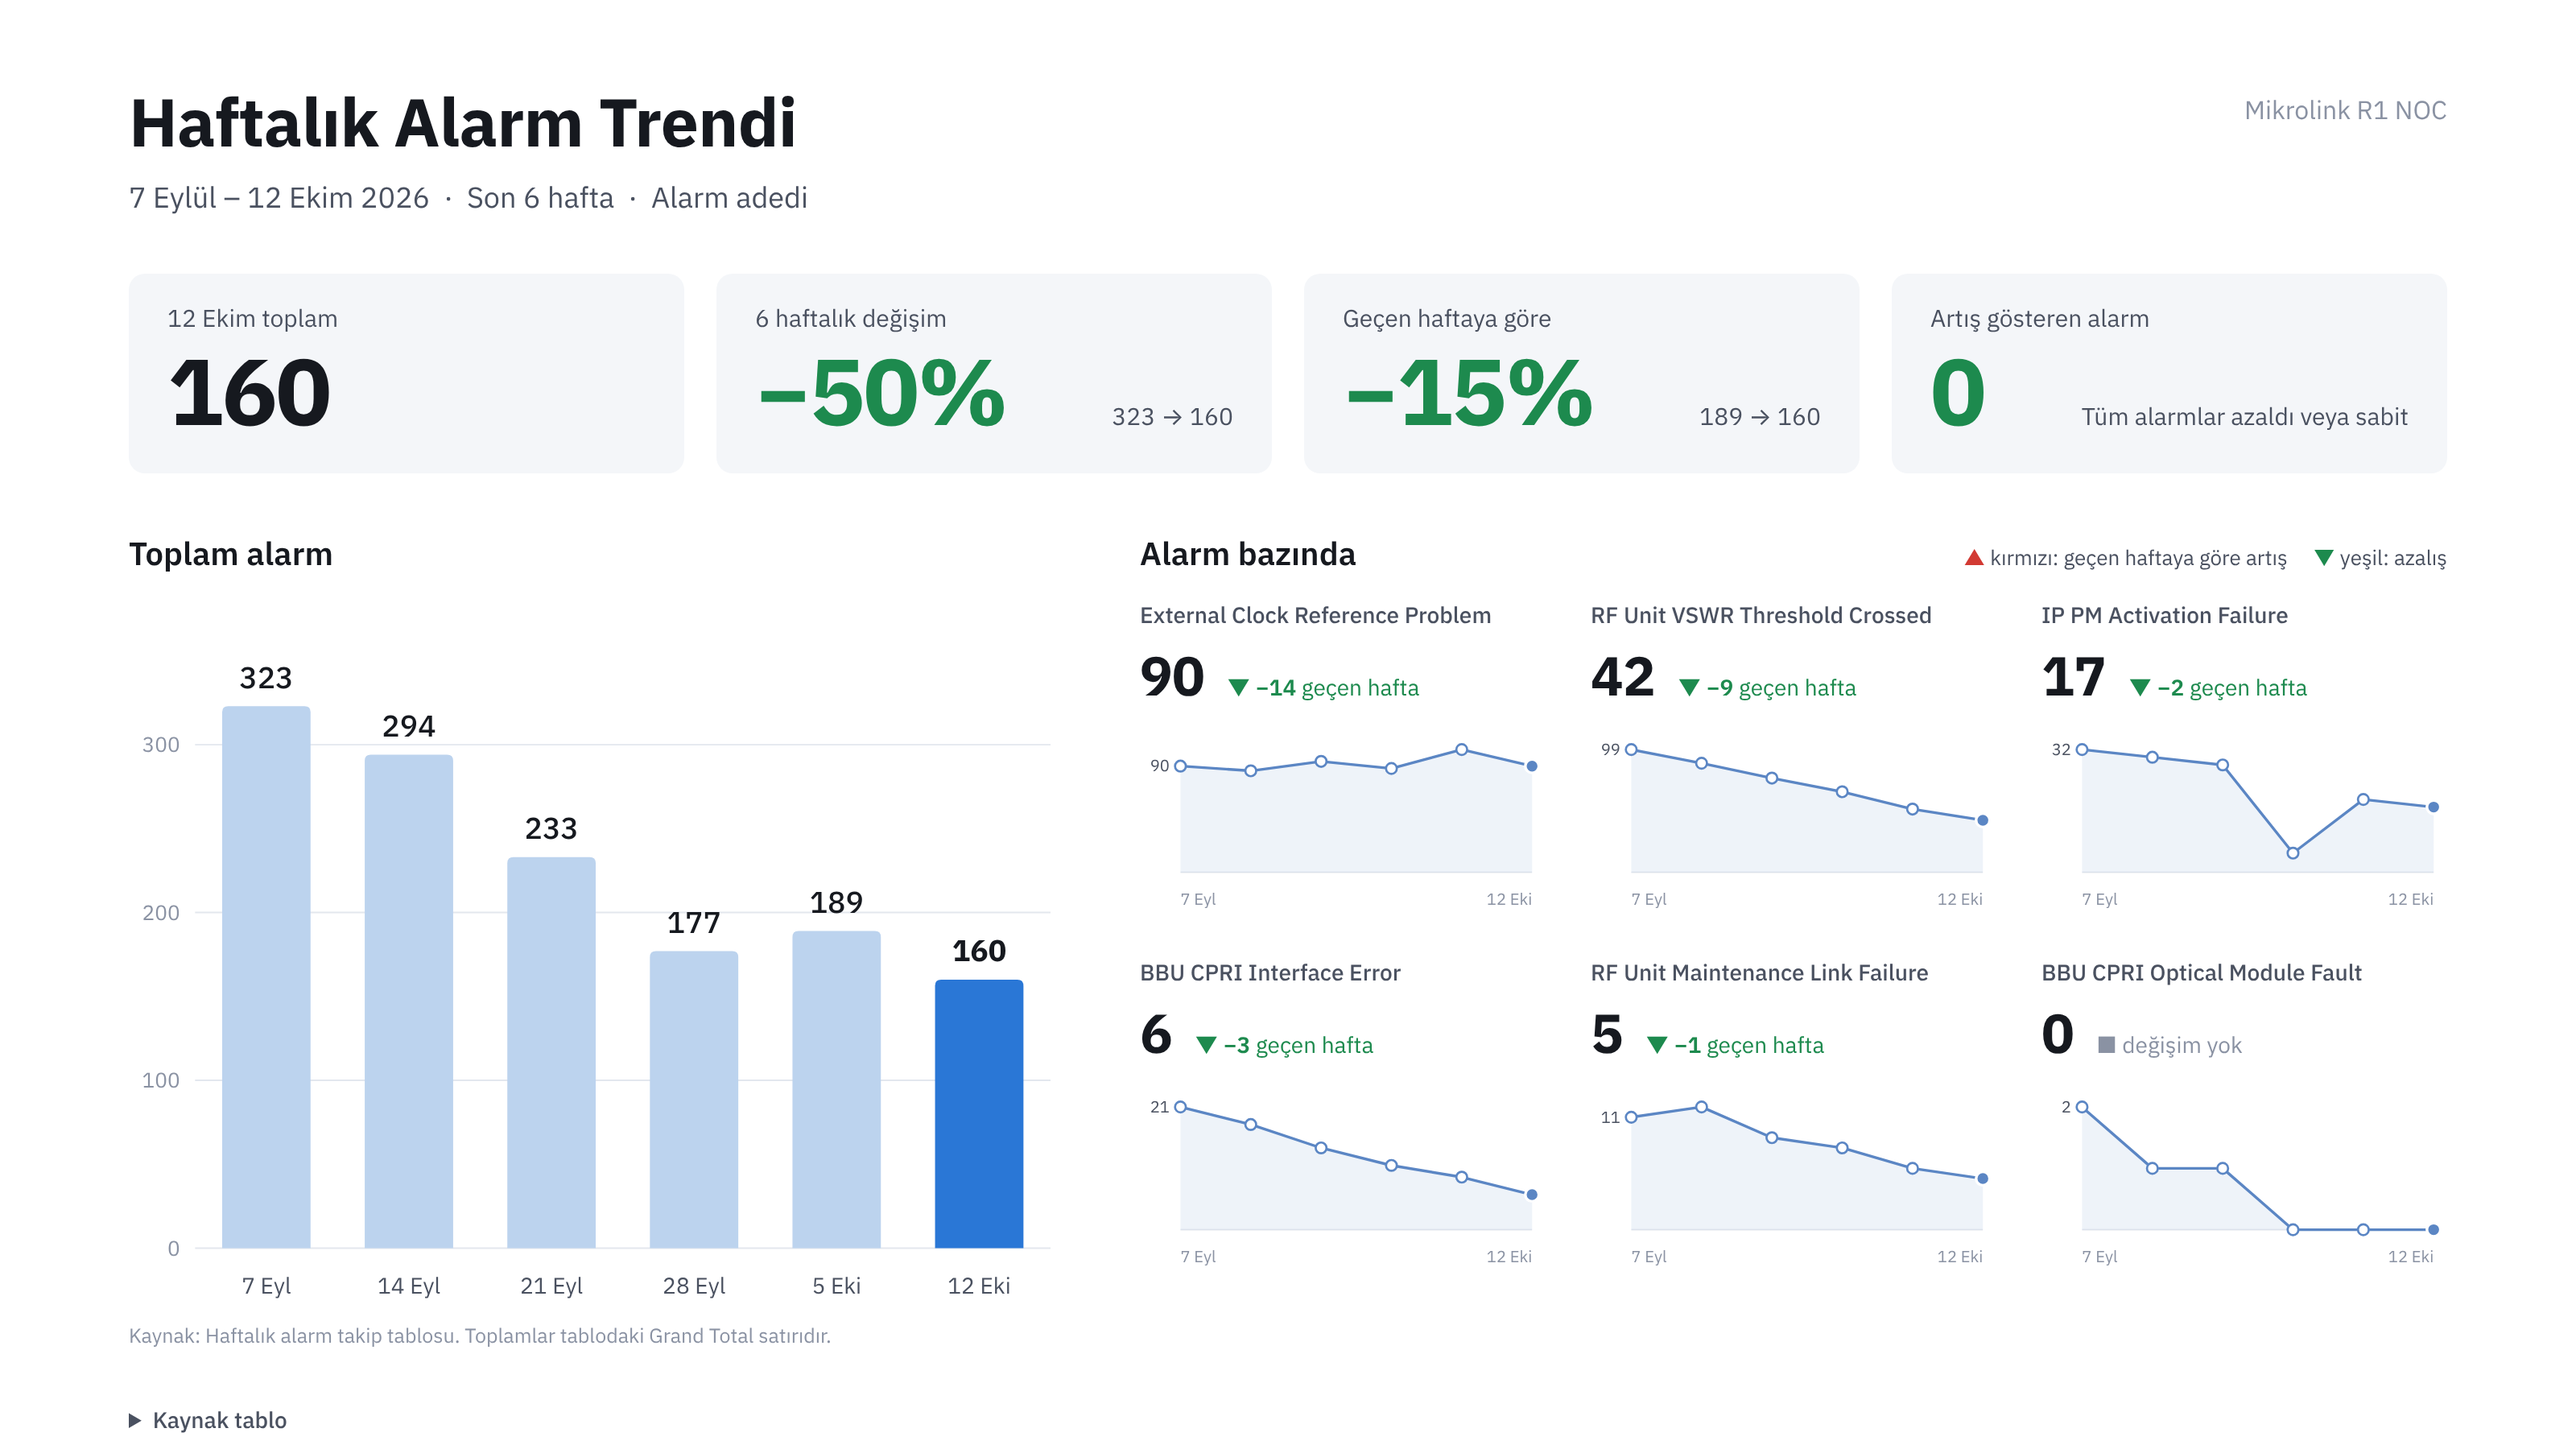
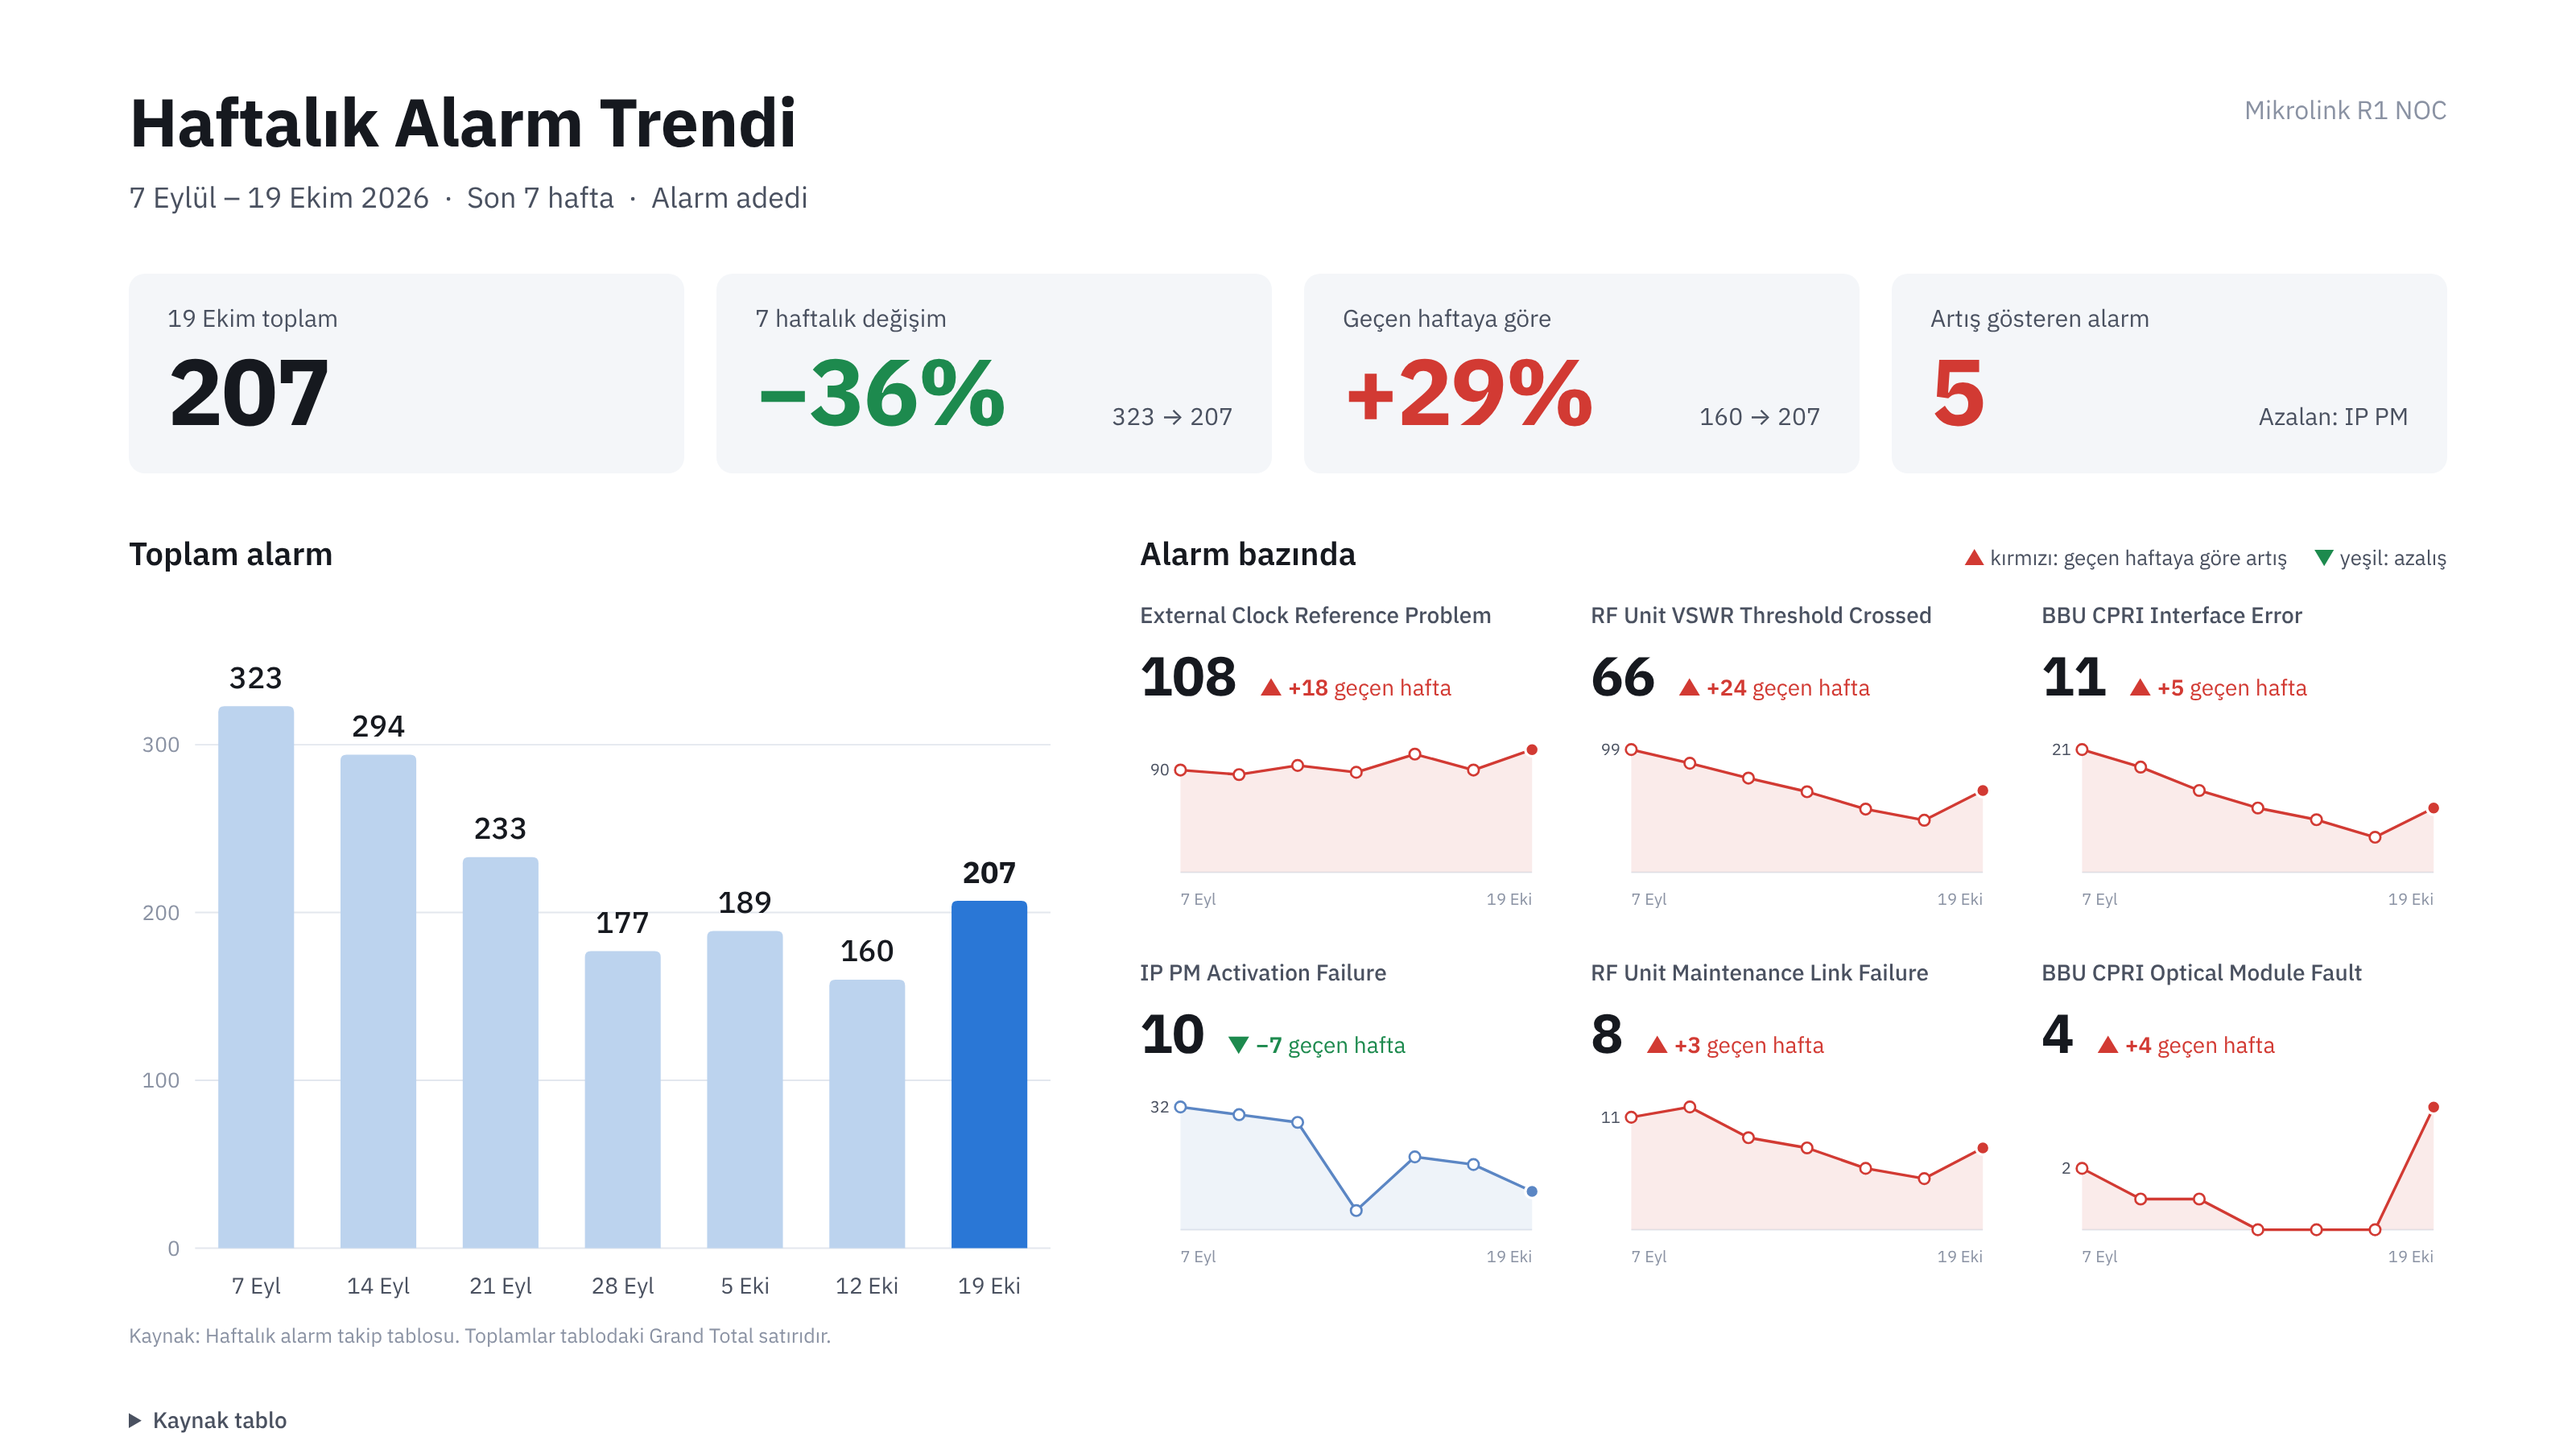
Alarm trendi: 19 Ekim haftası eklendi
Claude-Session: https://claude.ai/code/session_012sN5BMxCxUoRujMVh7cwqc

diff --git a/alarm-trendi/index.html b/alarm-trendi/index.html
@@ -84,7 +84,7 @@ details summary:focus-visible { outline: 2px solid var(--bar-hi); outline-offset
   <header>
     <div>
       <h1>Haftalık Alarm Trendi</h1>
-      <p class="sub">7 Eylül – 12 Ekim 2026 &nbsp;·&nbsp; Son 6 hafta &nbsp;·&nbsp; Alarm adedi</p>
+      <p class="sub">7 Eylül – 19 Ekim 2026 &nbsp;·&nbsp; Son 7 hafta &nbsp;·&nbsp; Alarm adedi</p>
     </div>
     <div class="org">Mikrolink R1 NOC</div>
   </header>
@@ -114,17 +114,17 @@ details summary:focus-visible { outline: 2px solid var(--bar-hi); outline-offset
 <div id="tip" hidden></div>
 
 <script>
-const WEEKS = ["7 Eyl","14 Eyl","21 Eyl","28 Eyl","5 Eki","12 Eki"];
-const WEEKS_FULL = ["7.09.2026","14.09.2026","21.09.2026","28.09.2026","5.10.2026","12.10.2026"];
+const WEEKS = ["7 Eyl","14 Eyl","21 Eyl","28 Eyl","5 Eki","12 Eki","19 Eki"];
+const WEEKS_FULL = ["7.09.2026","14.09.2026","21.09.2026","28.09.2026","5.10.2026","12.10.2026","19.10.2026"];
 const ALARMS = [
-  ["External Clock Reference Problem", [90,86,94,88,104,90], "Ext. Clock"],
-  ["RF Unit VSWR Threshold Crossed",   [99,88,76,65,51,42],  "VSWR"],
-  ["IP PM Activation Failure",         [32,30,28,5,19,17],   "IP PM"],
-  ["BBU CPRI Interface Error",         [21,18,14,11,9,6],    "CPRI Interface"],
-  ["RF Unit Maintenance Link Failure", [11,12,9,8,6,5],      "RF Maint. Link"],
-  ["BBU CPRI Optical Module Fault",    [2,1,1,0,0,0],        "CPRI Optical"],
+  ["External Clock Reference Problem", [90,86,94,88,104,90,108], "Ext. Clock"],
+  ["RF Unit VSWR Threshold Crossed",   [99,88,76,65,51,42,66],  "VSWR"],
+  ["IP PM Activation Failure",         [32,30,28,5,19,17,10],   "IP PM"],
+  ["BBU CPRI Interface Error",         [21,18,14,11,9,6,11],    "CPRI Interface"],
+  ["RF Unit Maintenance Link Failure", [11,12,9,8,6,5,8],      "RF Maint. Link"],
+  ["BBU CPRI Optical Module Fault",    [2,1,1,0,0,0,4],        "CPRI Optical"],
 ];
-const TOTAL = [323,294,233,177,189,160];
+const TOTAL = [323,294,233,177,189,160,207];
 const N = TOTAL.length, L = N - 1;
 const NS = "http://www.w3.org/2000/svg";
 const el = (tag, attrs, parent, text) => { const e = document.createElementNS(NS, tag); for (const k in attrs) e.setAttribute(k, attrs[k]); if (text != null) e.textContent = text; parent && parent.appendChild(e); return e; };
@@ -135,10 +135,10 @@ const sign = v => v > 0 ? "+" + v : v < 0 ? "−" + Math.abs(v) : "0";
 const total6 = pct(TOTAL[0], TOTAL[L]), wow = pct(TOTAL[L-1], TOTAL[L]);
 const risers = ALARMS.filter(a => a[1][L] > a[1][L-1]);
 const kpis = [
-  ["12 Ekim toplam", TOTAL[L], "", ""],
-  ["6 haftalık değişim", sign(total6) + "%", `${TOTAL[0]} → ${TOTAL[L]}`, total6 < 0 ? "good" : "bad"],
+  [WEEKS[L].replace("Eki","Ekim") + " toplam", TOTAL[L], "", ""],
+  [N + " haftalık değişim", sign(total6) + "%", `${TOTAL[0]} → ${TOTAL[L]}`, total6 < 0 ? "good" : "bad"],
   ["Geçen haftaya göre", sign(wow) + "%", `${TOTAL[L-1]} → ${TOTAL[L]}`, wow < 0 ? "good" : "bad"],
-  ["Artış gösteren alarm", risers.length, risers.length ? risers.map(a => a[2]).join(" · ") : "Tüm alarmlar azaldı veya sabit", risers.length ? "bad" : "good"],
+  ["Artış gösteren alarm", risers.length, risers.length === 0 ? "Tüm alarmlar azaldı veya sabit" : risers.length > 2 ? "Azalan: " + (ALARMS.filter(a => !risers.includes(a)).map(a => a[2]).join(" · ") || "yok") : risers.map(a => a[2]).join(" · "), risers.length ? "bad" : "good"],
 ];
 document.getElementById("kpis").innerHTML = kpis.map(([l, v, n, c]) =>
   `<div class="kpi"><div class="lbl">${l}</div><div class="row"><div class="big ${c}">${v}</div><div class="note">${n}</div></div></div>`).join("");
@@ -168,7 +168,7 @@ document.getElementById("kpis").innerHTML = kpis.map(([l, v, n, c]) =>
 /* Small multiples */
 (() => {
   const host = document.getElementById("multiples");
-  ALARMS.forEach(([name, d]) => {
+  [...ALARMS].sort((a, b) => b[1][L] - a[1][L]).forEach(([name, d]) => {
     const diff = d[L] - d[L-1];
     const cls = diff > 0 ? "bad" : diff < 0 ? "good" : "";
     const delta = diff > 0 ? `▲ +${diff} <span>geçen hafta</span>` : diff < 0 ? `▼ −${-diff} <span>geçen hafta</span>` : `<span style="color:var(--flat)">■ değişim yok</span>`;
